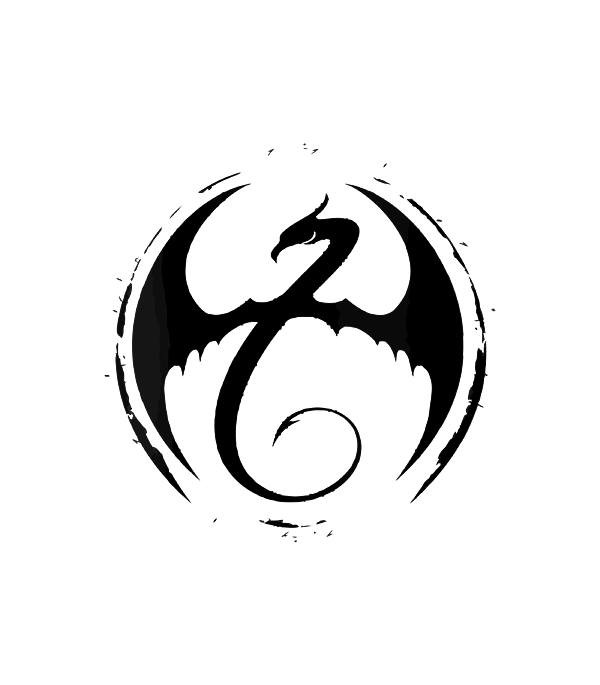
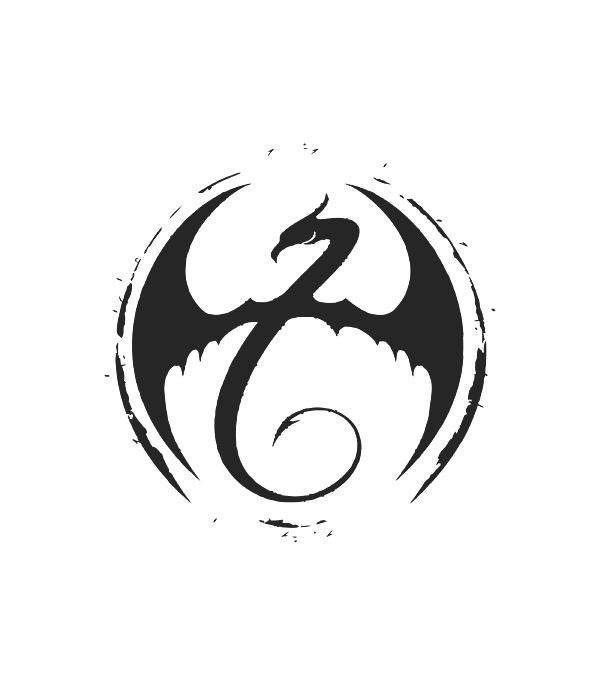
Adicionando paleta de cores e deixando navbar fixa

diff --git a/public/index.html b/public/index.html
@@ -31,6 +31,7 @@
                         <p> Lorem ipsum dolor sit amet consectetur adipisicing elit. Accusantium, nobis architecto unde,
                             cupiditate modi deserunt, vitae nulla voluptatum deleniti illo repellat praesentium nemo sed
                             earum voluptatem error perferendis quis doloremque? Lorem ipsum dolor sit, amet consectetur adipisicing elit. Minima voluptas fugiat dolor dolorem impedit alias reprehenderit suscipit quidem ipsa. Quisquam, maxime nam itaque nulla tenetur commodi dolor magni officia consequuntur? Lorem ipsum dolor sit amet consectetur adipisicing elit. Voluptates enim repudiandae minima modi sunt nesciunt iure in neque quam numquam obcaecati cum, mollitia porro doloremque non eveniet aspernatur officiis sed.</p>
+                            <br><br><br>
                     </div>
                 </div>
             </div>
@@ -43,6 +44,7 @@
                         <p> Lorem ipsum dolor sit amet consectetur adipisicing elit. Accusantium, nobis architecto unde,
                             cupiditate modi deserunt, vitae nulla voluptatum deleniti illo repellat praesentium nemo sed
                             earum voluptatem error perferendis quis doloremque?</p>
+                            <br><br><br>
                     </div>
                 </div>
             </div>
@@ -55,6 +57,7 @@
                         <p> Lorem ipsum dolor sit amet consectetur adipisicing elit. Accusantium, nobis architecto unde,
                             cupiditate modi deserunt, vitae nulla voluptatum deleniti illo repellat praesentium nemo sed
                             earum voluptatem error perferendis quis doloremque?</p>
+                            <br><br><br>
                     </div>
                 </div>
             </div>
@@ -67,6 +70,7 @@
                         <p> Lorem ipsum dolor sit amet consectetur adipisicing elit. Accusantium, nobis architecto unde,
                             cupiditate modi deserunt, vitae nulla voluptatum deleniti illo repellat praesentium nemo sed
                             earum voluptatem error perferendis quis doloremque?</p>
+                            <br><br><br>
                     </div>
                 </div>
             </div>

diff --git a/public/style.css b/public/style.css
@@ -1,7 +1,7 @@
 /* Começo do Header */
 *{
 font-family: Arial, Helvetica, sans-serif;
-color: white;
+color: #FCF7F8;
 margin: 0;
 padding: 0%;
 
@@ -20,9 +20,10 @@ padding: 0%;
     justify-content: space-evenly;
     display: flex;
     width: 100%;
-    border: bottom 3px solid #0000;
-    background: linear-gradient(to bottom right,#FF2400, #FD2400,#FE2400,#EE2400);
-
+    border: bottom 2px solid #2c2c2c;
+    background-color: #ee7828;
+    position: fixed;
+/* Border bottom e nav bar mt baixa */
 }
 .container{
     display: flex;
@@ -33,22 +34,26 @@ padding: 0%;
     font-weight: bold;
 }
 .login{
-    width: fit-content;
-    background-color: rgba(255, 102, 0, 0.829);
+    width: 80px;
+    height: 40px;
+    color:#2c2c2c;
+    background-color: #c5baaa;
+    /* color <> do q eu passei */
 }
 a{
  text-decoration: none;
- color: white;
+ color: #2c2c2c;
 }
 /* Final do Header */
+
 /* Começo do body*/
 .boxTexto{
     width: 500px;
     margin: auto;
 }
 .banner .container{
-    background-color: rgba(51, 51, 51, 0.925);
-}
+    background-color: #2c2c2ce1;
+}   
 .banner{
     width: 70%;
     margin: auto;
